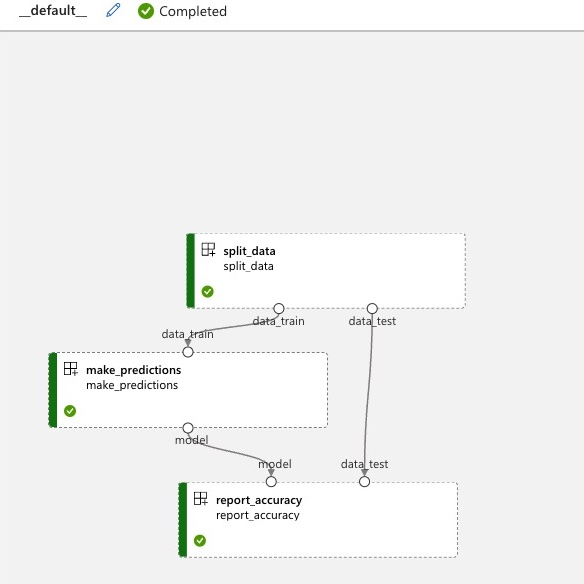
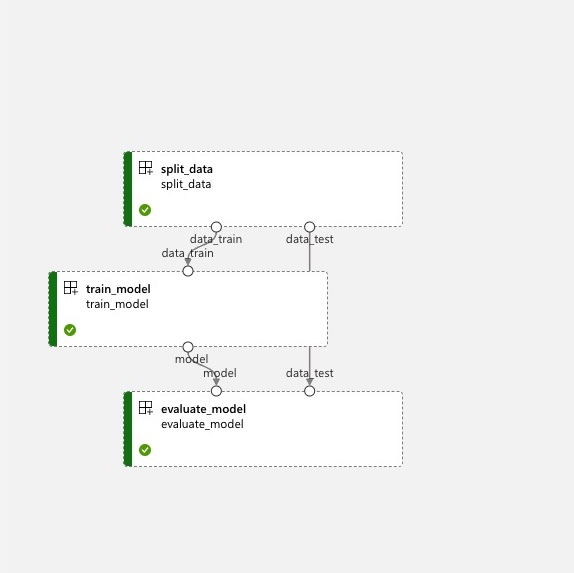
fix issues

diff --git a/{{cookiecutter.repo_name}}/src/{{ cookiecutter.python_package }}/pipelines/iris_example/pipeline.py b/{{cookiecutter.repo_name}}/src/{{ cookiecutter.python_package }}/pipelines/iris_example/pipeline.py
@@ -24,13 +24,13 @@ def create_pipeline(**kwargs) -> Pipeline:
                 func=train_model,
                 inputs=["data_train", "params:model"],
                 outputs="model",
-                name="make_predictions",
+                name="train_model",
             ),
             node(
                 func=evaluate_model,
                 inputs=["model", "data_test"],
                 outputs=None,
-                name="report_accuracy",
+                name="evaluate_model",
             ),
         ]
     )
